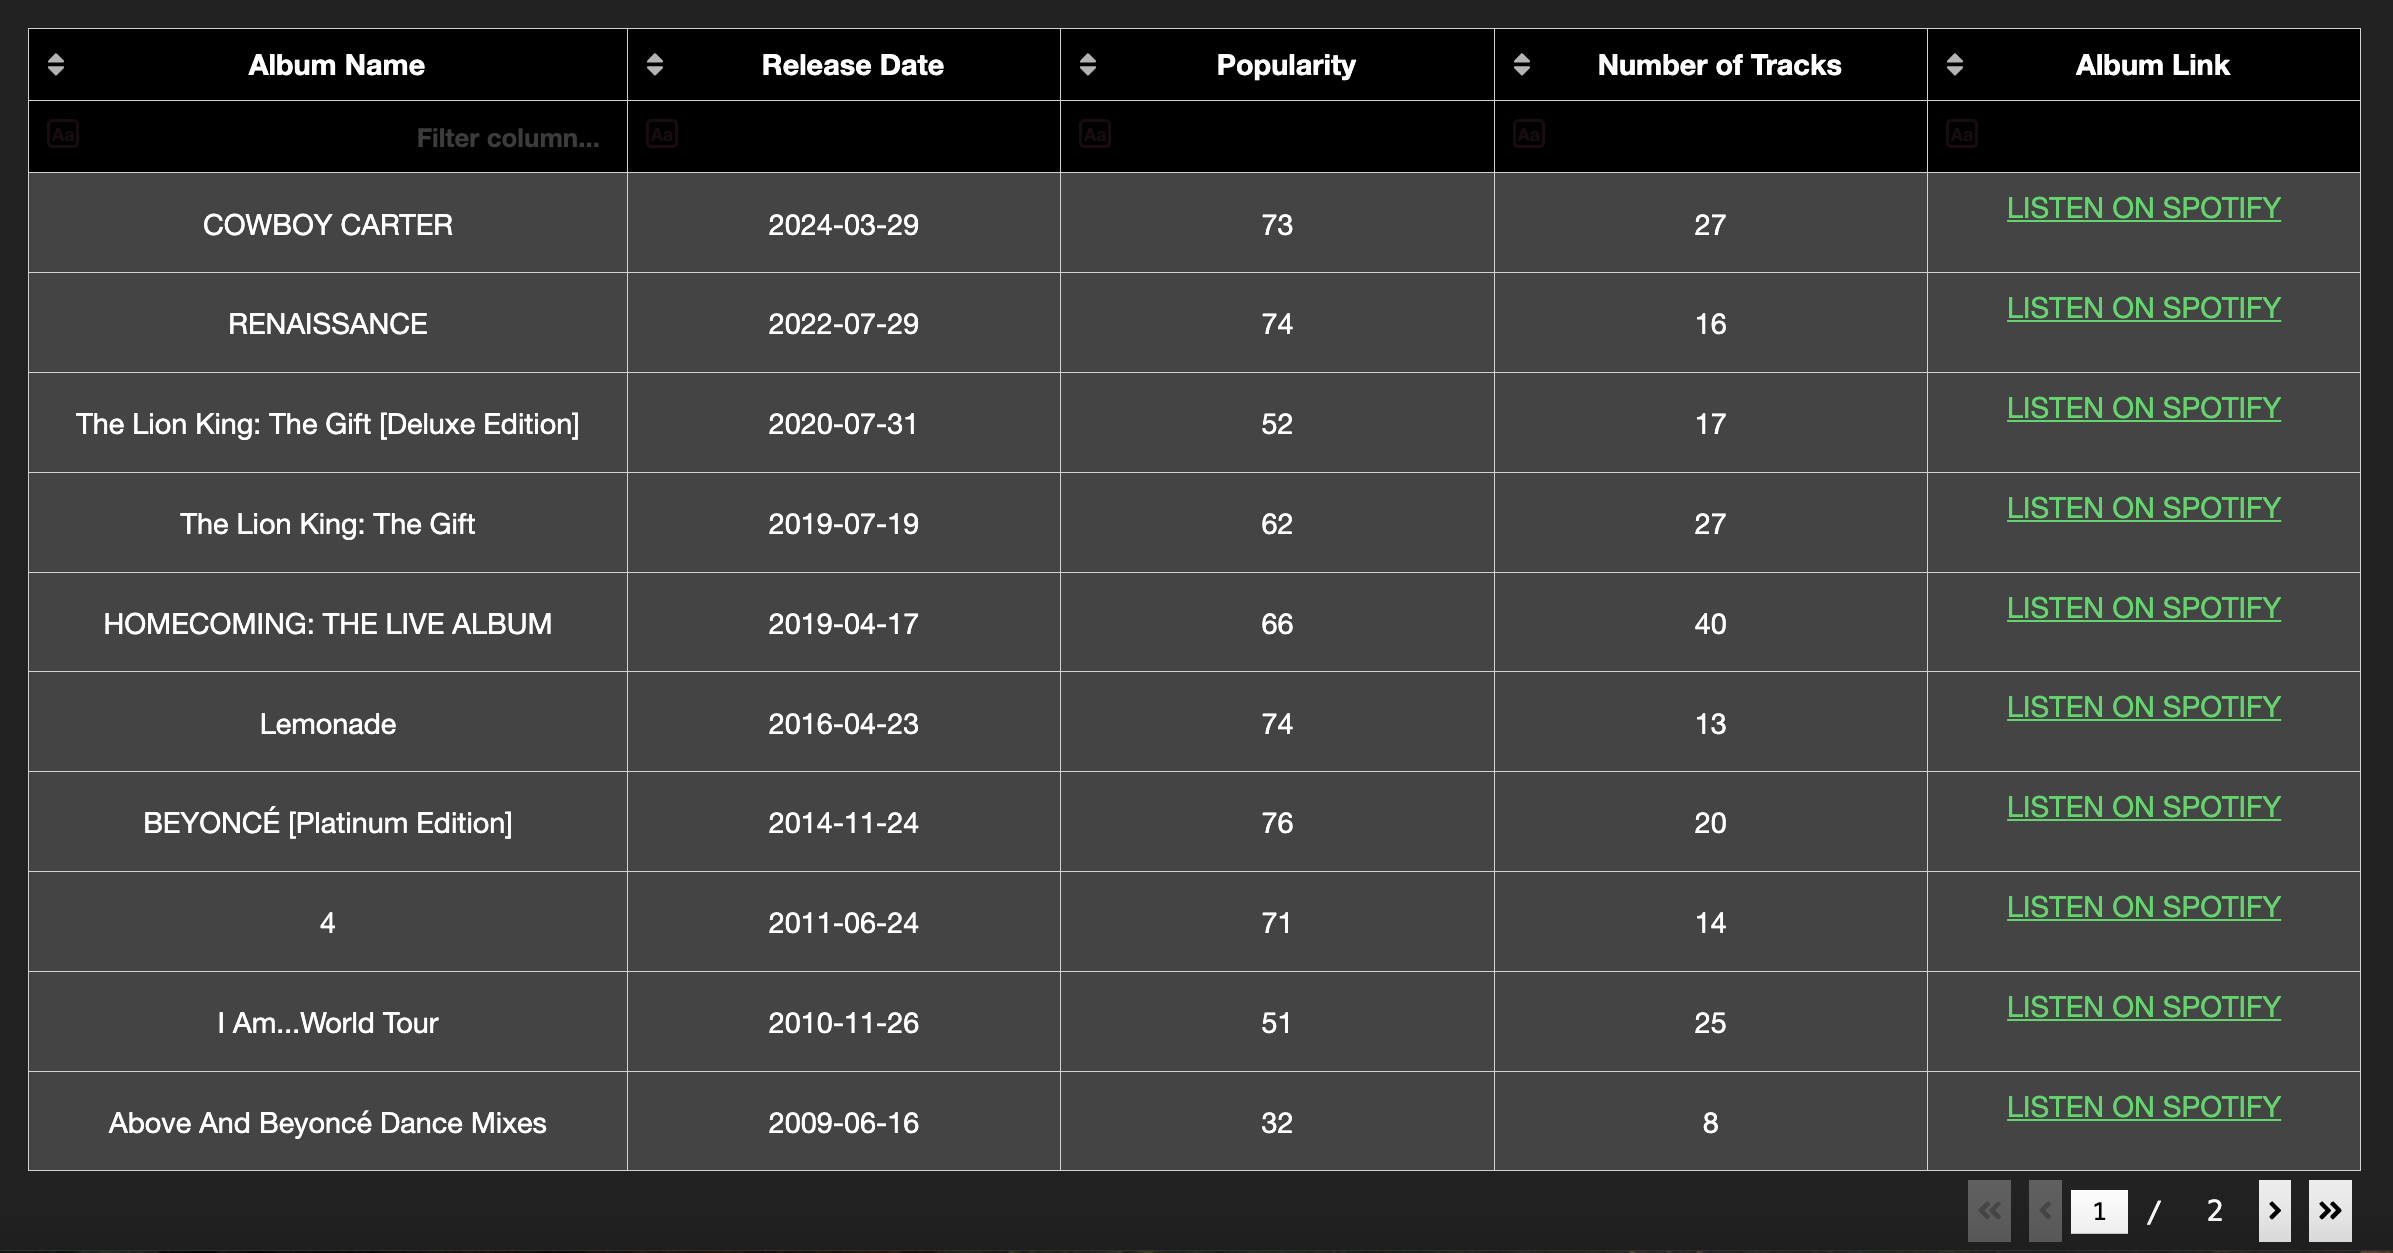
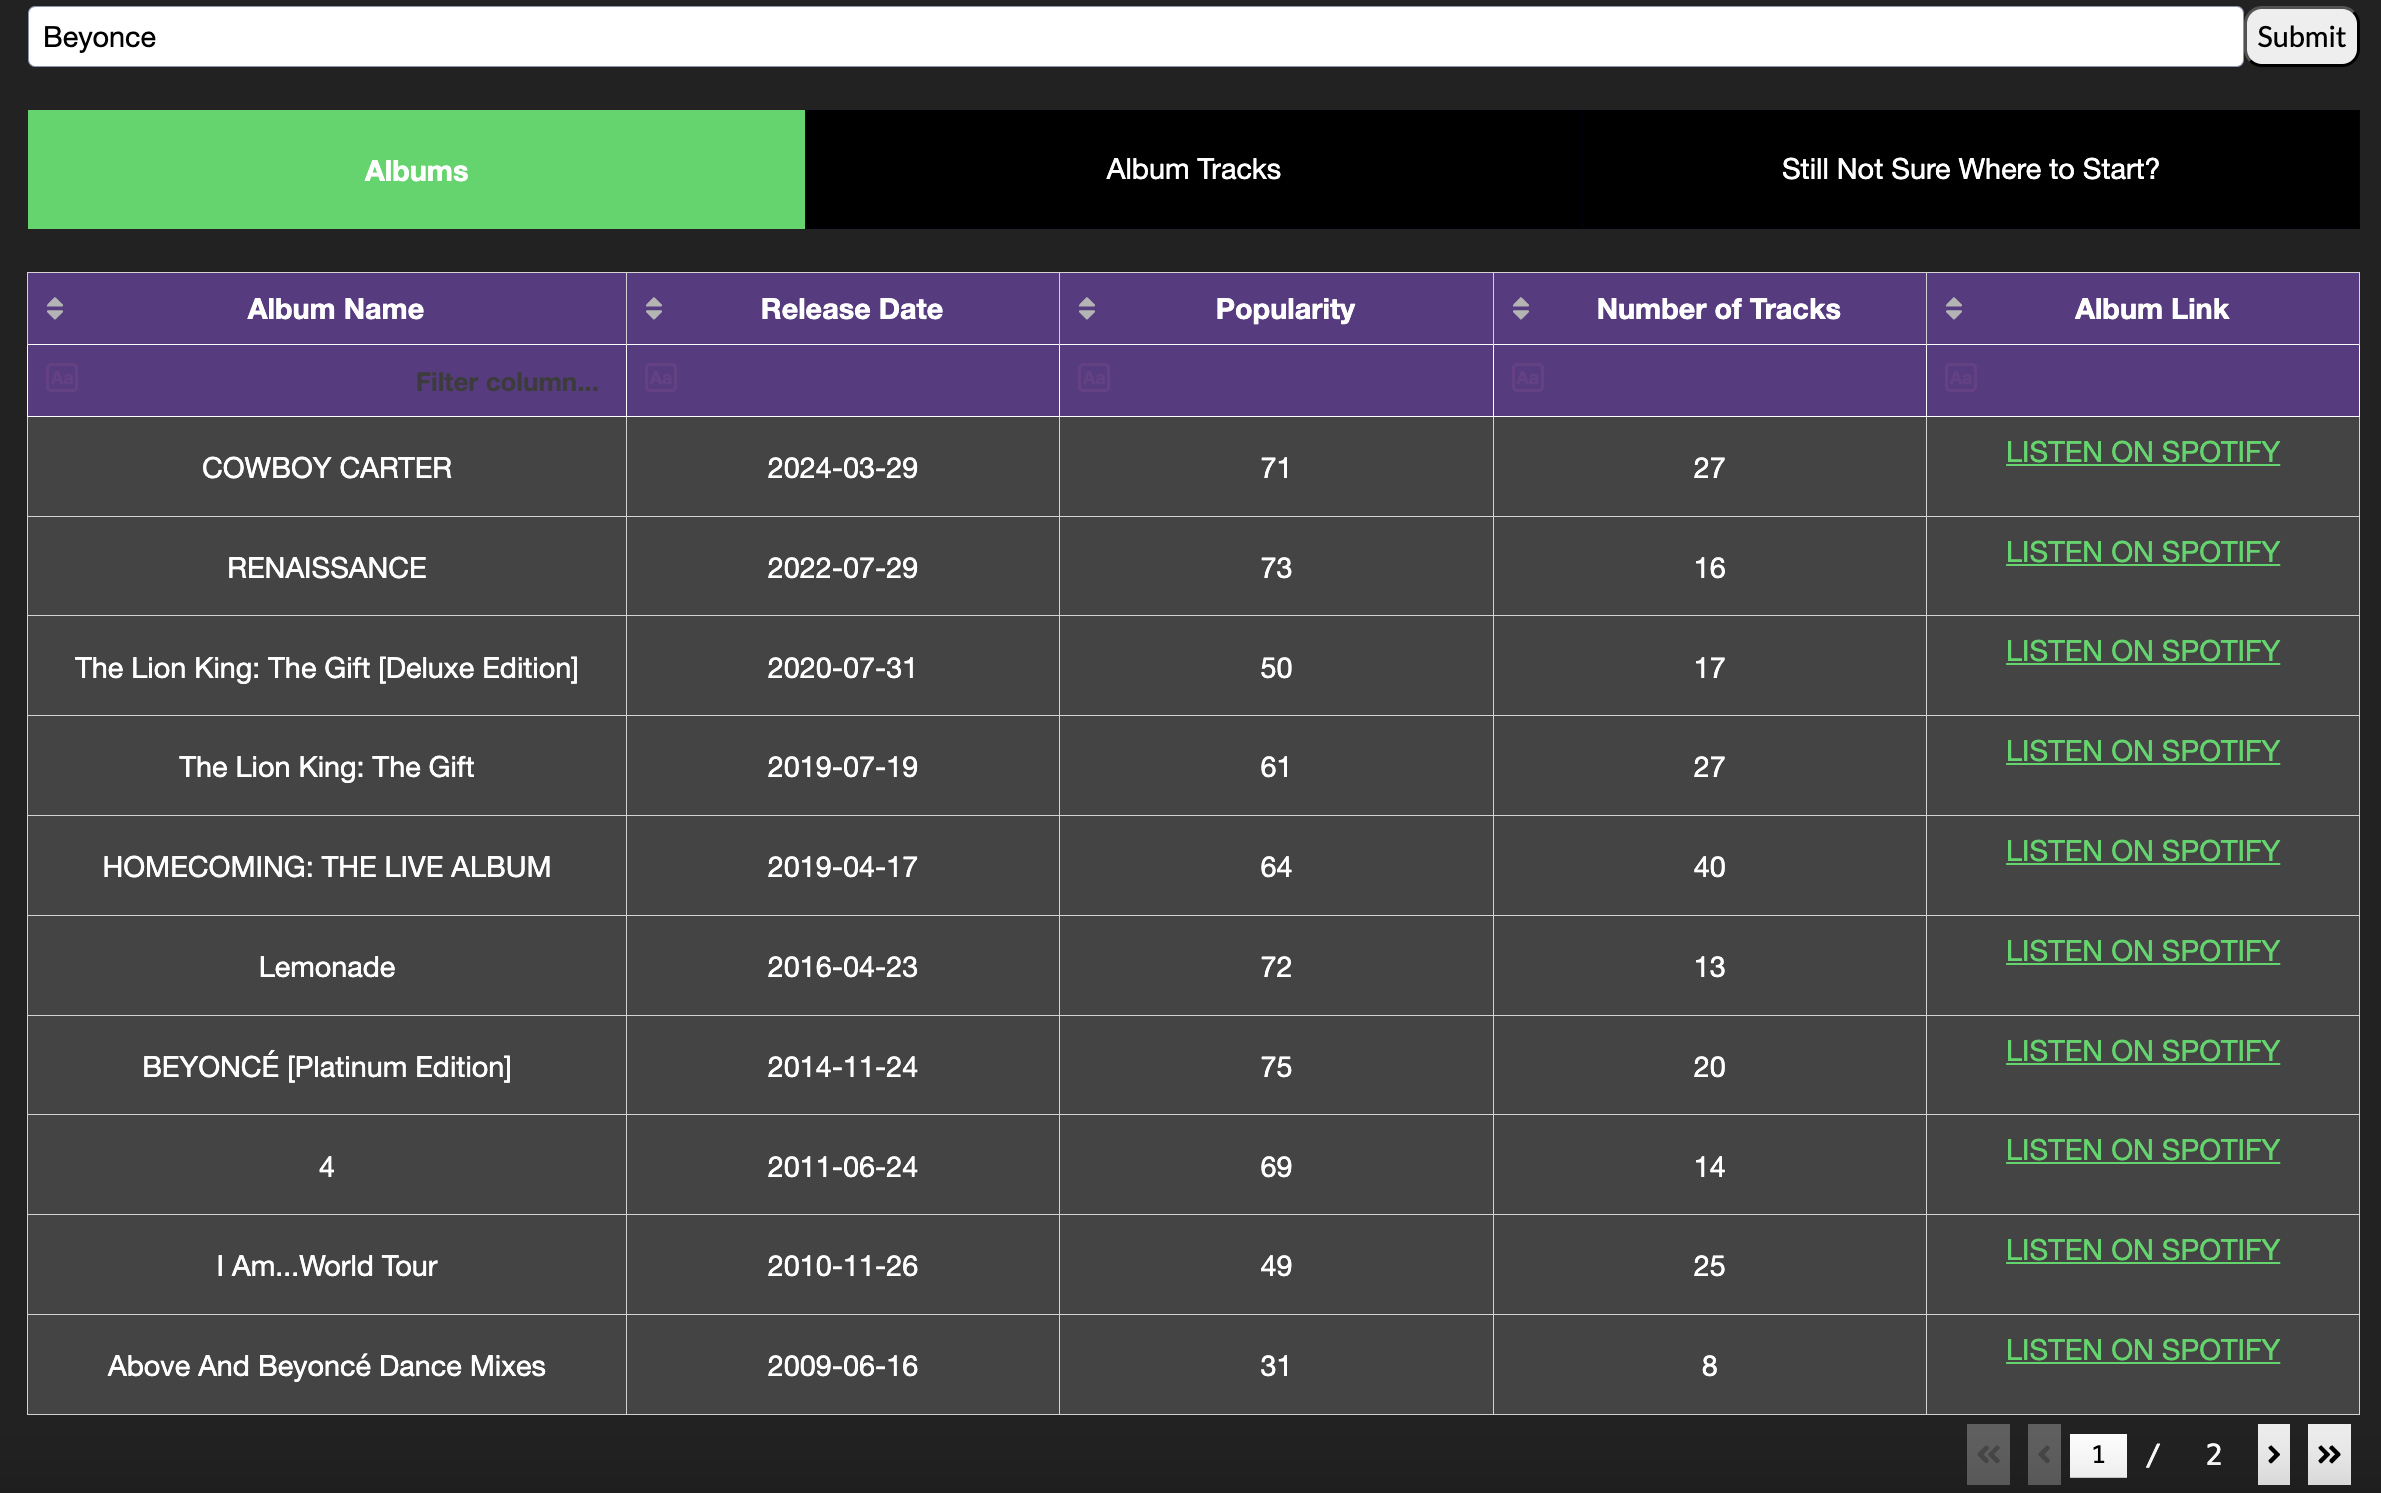
changed colour of table header background to match theme

diff --git a/assets/styles.css b/assets/styles.css
@@ -57,7 +57,7 @@ span {
 }
 
 #album-table th {
-    background-color: rgb(0,0,0);
+    background-color: rgba(127,75,196,0.6);
     border: 2px solid rgb(255, 255, 255);
     color: rgb(255,255,255);
     font-family: "Default sans-serif", "Helvetica Neue", Helvetica, Arial;

diff --git a/app.py b/app.py
@@ -42,9 +42,14 @@ app.layout = dbc.Container([
                         page_action="native",
                         page_current= 0,
                         page_size=10,
+                        style_filter_conditional=[{
+                                "if": {"column_editable": False},
+                                "backgroundColor": "rgba(127, 75, 196, 0.6)",
+                                "border": "1px solid rgba(255, 255, 255, 1)"
+                            }],
                         style_data_conditional=[{
                                 "if": {"state": "active"},
-                                "backgroundColor": "rgba(127, 75, 196, 0.3)",
+                                "backgroundColor": "rgba(127, 75, 196, 0.6)",
                                 "border": "1px solid rgba(127, 75, 196, 1)"
                             }],
                         ),
@@ -134,7 +139,7 @@ app.layout = dbc.Container([
                              dbc.Card(
                                 dbc.CardBody([
                                     html.H4("Spotify Generated Top Tracks"),
-                                    html.P("Similar to the Most Popular Tracks list but includes non-album and featured tracks."),
+                                    html.P("Similar to the Most Popular Tracks list but includes non-album tracks and tracks the artist contributed to as a feature."),
                                     html.P(id="top-tracks"),
                                     html.Br(),
                                     html.H4("Random Album Generator"),
